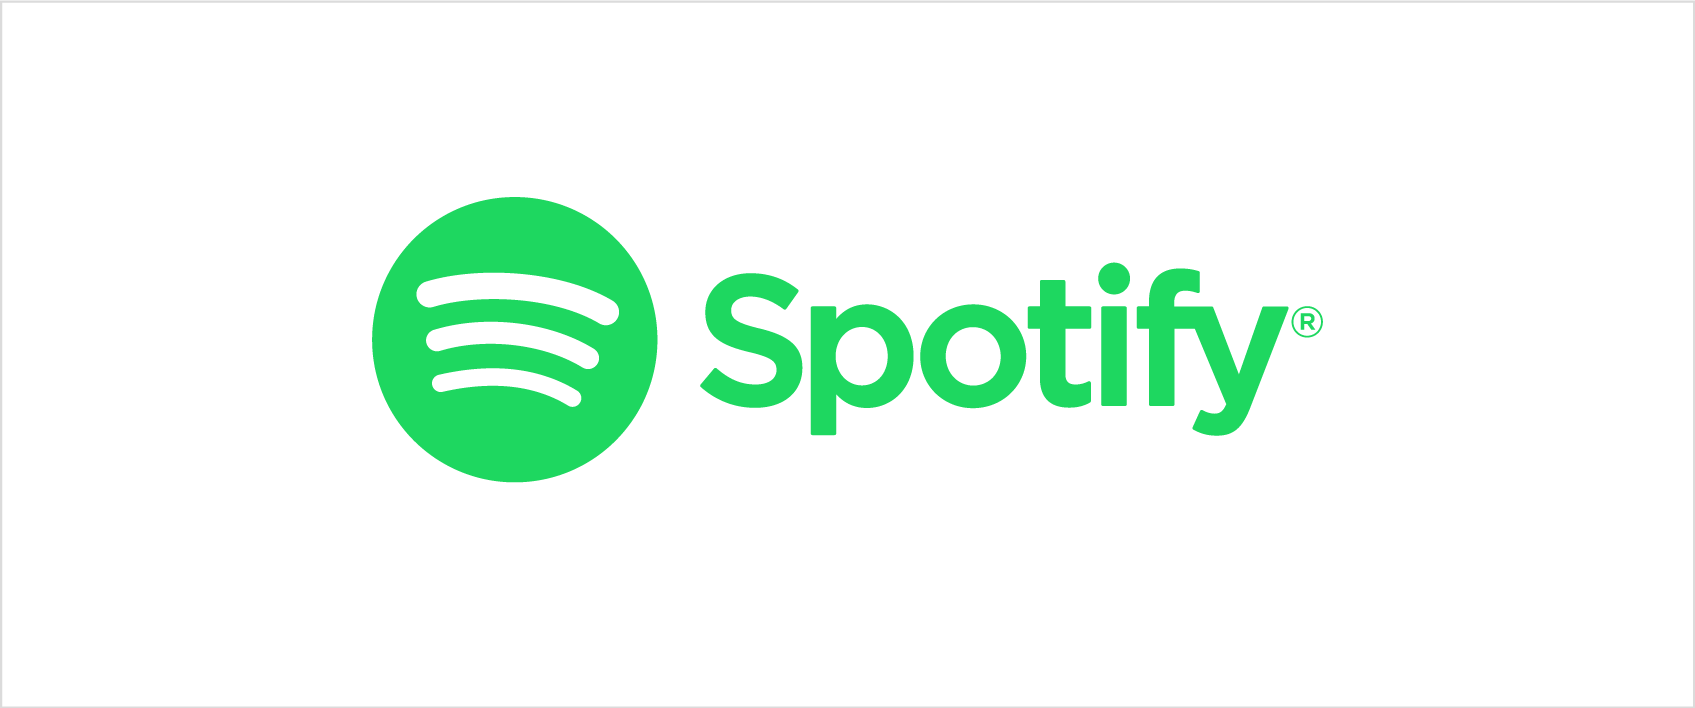
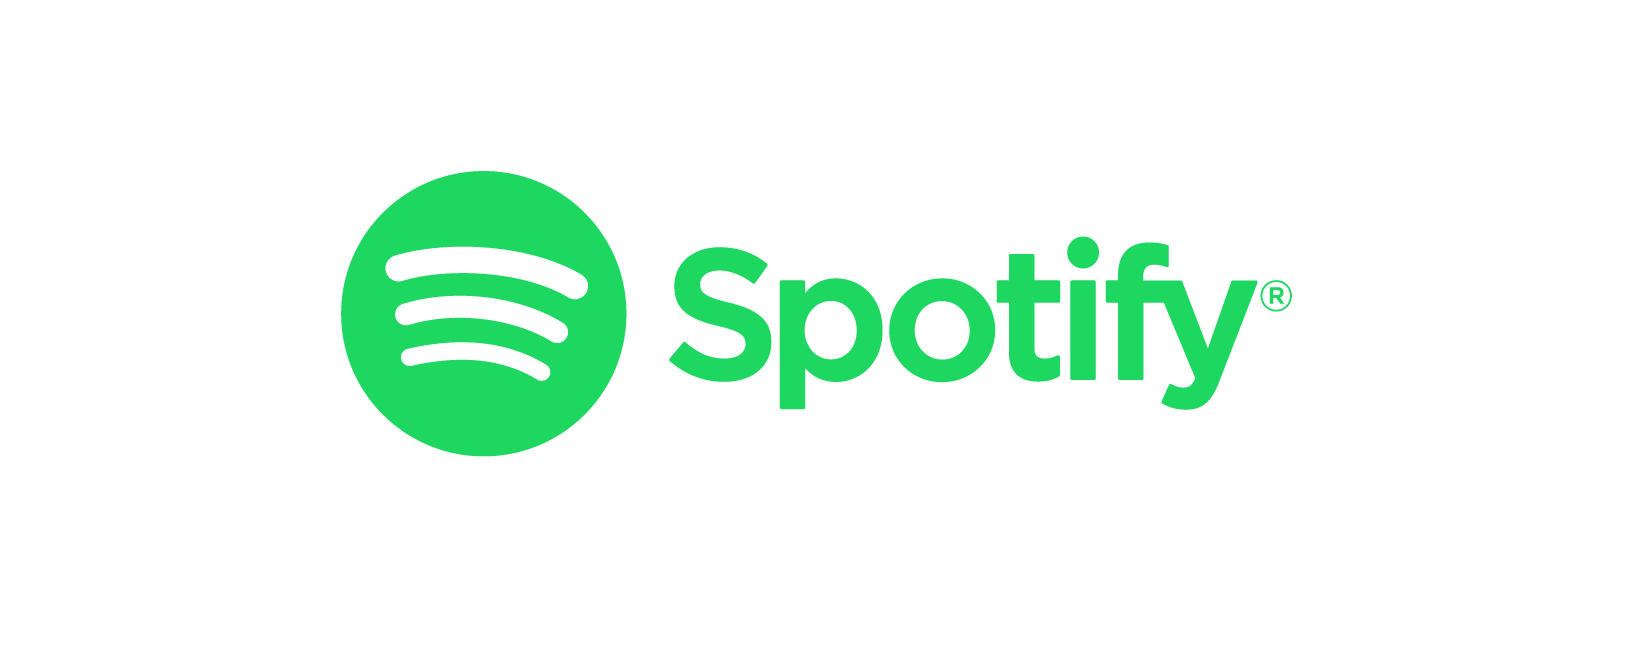
edited spotify img

diff --git a/index.md b/index.md
@@ -8,7 +8,7 @@
 
 ## [DJAZE iOS](/djaze)
 
-[<img src="images/spotify_large.jpg?raw=true" width="100%"/>](/djaze)
+[<img src="images/spotify_large.png?raw=true" width="100%"/>](/djaze)
 
 #### DJAZE is an iOS application designed for bar and partygoers, written entirely in Swift.  It is a two-sided application featuring a live song request system and a democratic upvote and downvote system.  Implemented using the Spotify Web API and Google Firebase.
 

diff --git a/djaze.md b/djaze.md
@@ -3,7 +3,7 @@
 
 <br>
 
-<img src="images/spotify_large.jpg?raw=true" width="100%" />
+<img src="images/spotify_large.png?raw=true" width="100%" />
 
 <br>
 
